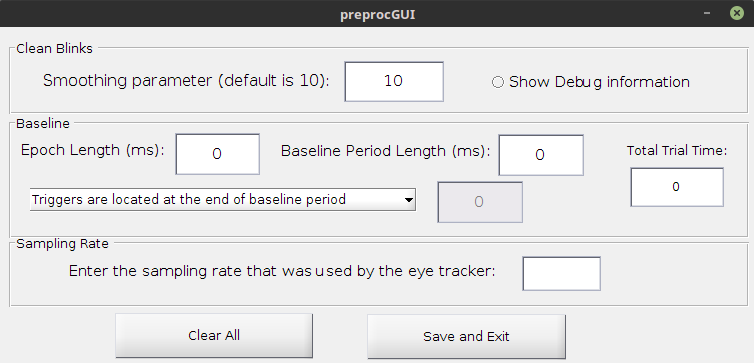
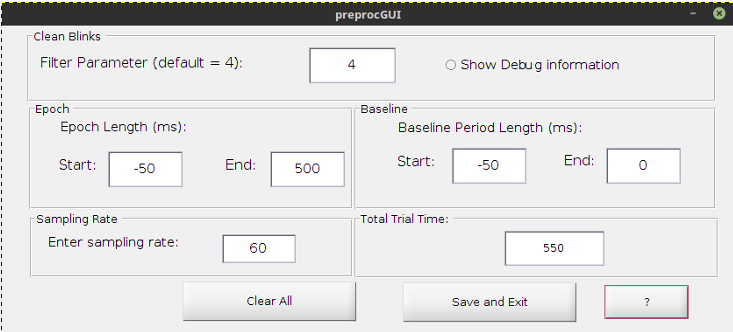
updated preprocessing documentation

diff --git a/Functions/GUI/HelpGui/pupilplot documentation/Pages/Set PreProc Options.html b/Functions/GUI/HelpGui/pupilplot documentation/Pages/Set PreProc Options.html
@@ -23,21 +23,17 @@ Broken into three categories:
 <ul><li dir="ltr">Cleaning blinks Parameters
 <ul><li dir="ltr">Uses a function from Jackson &amp; Sirosiss 2009 <a style="color:#204A87" href="References.html">References</a>
 </li><li dir="ltr">Input is a smoothing parameter 
-<ul><li dir="ltr">Default is 10
+<ul><li dir="ltr">Default is 4
 </li></ul></li><li dir="ltr">Designate whether or not you want to print debug information
 <ul><li dir="ltr">Default is no
-</li></ul></li></ul></li><li dir="ltr">Removing baseline Parameters
-<ul><li dir="ltr">Epoch Length
-<ul><li dir="ltr">In milliseconds and is just the time of interest (not including baseline period)
+</li></ul></li></ul></li><li dir="ltr">Defining Epochs
+<ul><li dir="ltr">Epoch Start/Stop Designation
+<ul><li dir="ltr">In milliseconds and is the entire epoch including the baseline period (designated as a negative integer)
 </li></ul></li><li dir="ltr">Baseline Length
 <ul><li dir="ltr">In milliseconds and is just the portion of time prior to the epoch (or period of interest) that is to be used as the baseline
-</li></ul></li><li dir="ltr">Location of annotation/trigger relative to baseline and trial
-<ul><li dir="ltr">It is common that sometimes baseline periods are either not designated or have there own trigger/annotation.  To handle different types of researcher styles of denoting when the trial begins, this option exists.
-<ul><li dir="ltr">There is a drop down with the option to select either
-<ul><li dir="ltr">Trigger is located at end of baseline period
-</li><li dir="ltr">Trigger is located at the beginning of the baseline period
-</li></ul></li></ul></li><li dir="ltr">If '<i>Trigger is located at the beginning of the baseline period</i>' is selected the input box next to the drop down becomes editable.  In this box one should enter the amount of time in milliseconds that the trigger occurs before the  epoch or period of interest begins.
-</li></ul></li><li dir="ltr">An box that can not be edited show the total trial time (ms) that is solely the addition of the baseline and epoch length.
+</li></ul></li><li dir="ltr">Total Trial Time
+<ul><li dir="ltr">Shows how many milliseconds comprise the entire epoch.
+<ul><li dir="ltr">This includes the baseline time and period of interest time
 </li></ul></li><li dir="ltr">Set Sample Rate
 <ul><li dir="ltr">Enter the sampling rate that was used when acquiring the data samples.</li></ul></li></ul>
 
